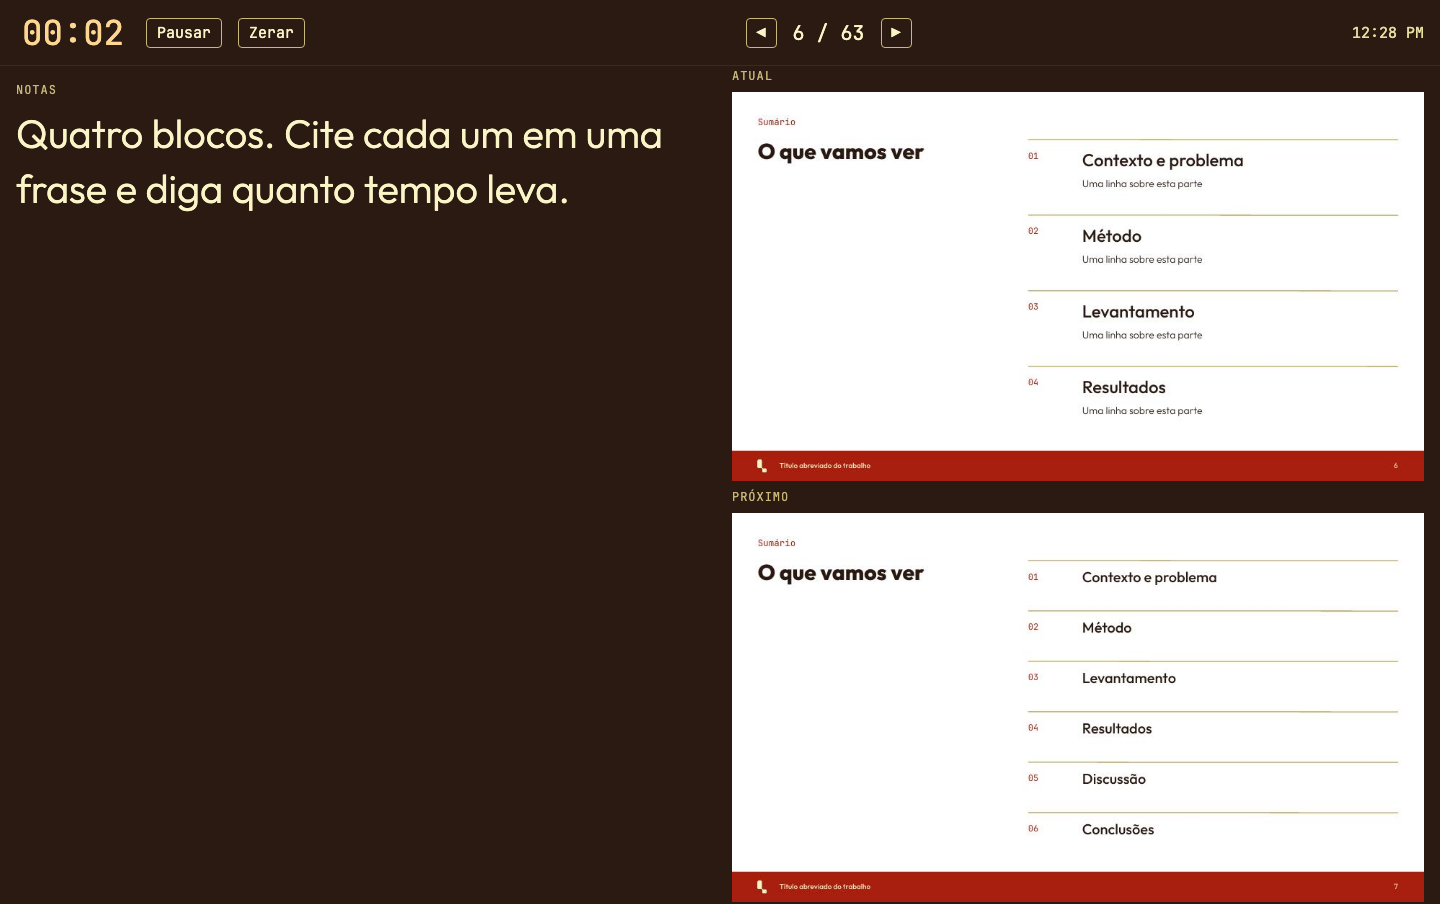
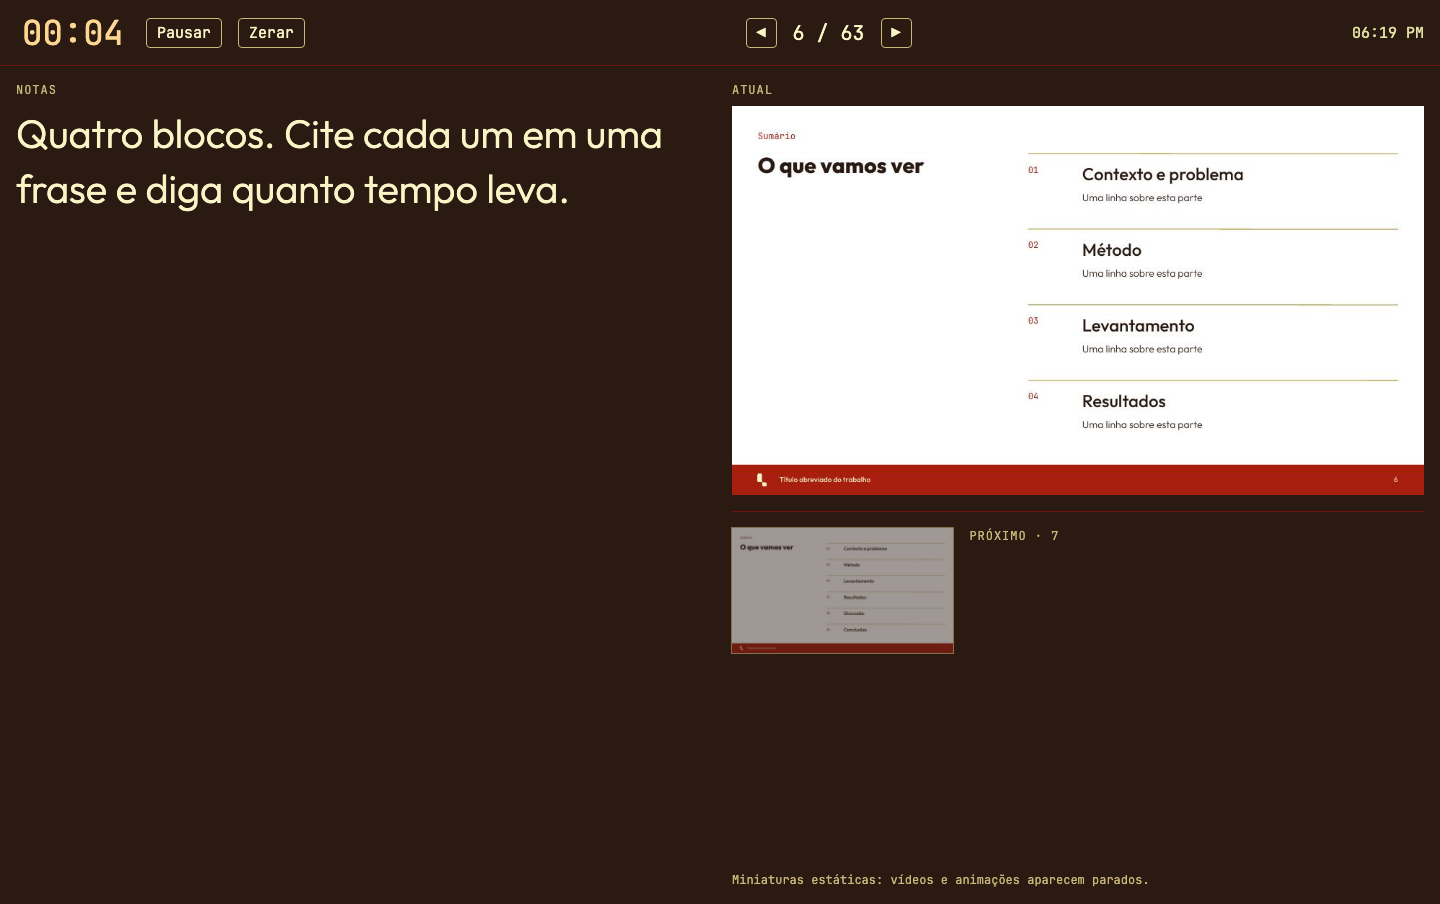
Apresentação v2: novo layout da janela do apresentador
Slide atual grande; próximo em miniatura menor e apagada, ao lado do
começo da nota dele; aviso de que as miniaturas são estáticas (vídeos e
animações aparecem parados). Print, README, CHANGELOG e página 8.1
atualizados.

diff --git a/templates/apresentacao/potx/apresentador.js b/templates/apresentacao/potx/apresentador.js
@@ -1,6 +1,6 @@
 // Janela do apresentador do deck HTML (o html.js injeta este arquivo só quando há notas). Adaptado do Vision.
 // O runtime do deck-stage carrega as notas, mas só as mostra dentro de um aplicativo hospedeiro; aqui:
-//   N  abre o apresentador: nota atual (fonte ajustada para caber), começo da próxima nota, slide atual e próximo, cronômetro, hora.
+//   N  abre o apresentador: nota atual (fonte ajustada para caber), slide atual grande, próximo pequeno com o começo da nota dele, cronômetro, hora.
 //      É uma janela comum: arraste para a tela do notebook e maximize, ou use F nela para tela cheia.
 // No apresentador: setas, espaço, PageUp e PageDown movem o deck; P inicia ou pausa o cronômetro; R zera.
 // O cronômetro começa sozinho na primeira troca de slide. Sem contagem regressiva (decisão do Vision).
@@ -37,8 +37,8 @@
     $('ni').hidden = last; $('end').hidden = !last;
     if (!last) $('ni').src = img(cur + 1);
     $('notes').innerHTML = notes[cur] ? notes[cur].split(/\n+/).map((p) => `<p>${esc(p)}</p>`).join('') : '<p class="none">Sem notas neste slide.</p>';
-    const prox = (notes[cur + 1] || '').split(/\n+/)[0]; // começo da próxima nota: só a primeira linha, em cinza
-    $('nn').textContent = prox ? 'Próxima: ' + prox : '';
+    $('nl').textContent = last ? 'Próximo' : `Próximo · ${cur + 2}`;
+    $('nn').textContent = (notes[cur + 1] || '').split(/\n+/)[0]; // começo da próxima nota: só a primeira linha, em cinza
     fitNotes();
   };
   // Maior fonte (12–40 px) em que a nota cabe na coluna sem rolar.
@@ -75,8 +75,10 @@
     button:hover,button:focus-visible{background:#6E1408;outline:none}
     .main{display:grid;grid-template-columns:1fr 1fr;gap:24px;padding:16px;min-height:0}
     .col{display:flex;flex-direction:column;gap:8px;min-height:0}
-    .shots{justify-content:center}
-    .shots img,.shots #end{width:auto;max-width:100%;max-height:calc(50vh - 60px);align-self:center}
+    #ci{width:auto;max-width:100%;max-height:calc(100vh - 300px);align-self:start}
+    .next{display:grid;grid-template-columns:32% 1fr;gap:16px;align-items:start;margin-top:8px;padding-top:16px;border-top:1px solid #6E1408}
+    #ni{opacity:.55;outline:1px solid #C9B87A} /* pequeno e apagado: não confundir com o atual */
+    .aviso{margin:auto 0 0;font:12px 'JetBrains Mono',monospace;color:#C9B87A}
     .lab{margin:0;font:12px 'JetBrains Mono',monospace;letter-spacing:.08em;text-transform:uppercase;color:#C9B87A}
     img{display:block;width:100%;aspect-ratio:16/9;object-fit:contain;background:#000}
     #end{aspect-ratio:16/9;display:grid;place-items:center;margin:0;border:1px dashed #C9B87A;color:#C9B87A;
@@ -84,7 +86,7 @@
     #end[hidden],img[hidden]{display:none}
     #notes{flex:1;min-height:0;overflow:hidden;line-height:1.4}
     #notes p{margin:0 0 .6em} #notes .none{color:#C9B87A}
-    #nn{margin:0;color:#C9B87A;font-size:15px;line-height:1.3;max-height:2.6em;overflow:hidden}`;
+    #nn{margin:8px 0 0;color:#C9B87A;font-size:15px;line-height:1.3;max-height:5.2em;overflow:hidden}`;
   const HTML = `
     <div class="bar">
       <span id="t">00:00</span><button id="pp">Iniciar</button><button id="rs">Zerar</button>
@@ -93,9 +95,11 @@
       <span class="sp"></span><span id="clk"></span>
     </div>
     <div class="main">
-      <div class="col"><p class="lab">Notas</p><div id="notes"></div><p id="nn"></p></div>
-      <div class="col shots"><p class="lab">Atual</p><img id="ci" alt="Slide atual">
-        <p class="lab">Próximo</p><img id="ni" alt="Próximo slide"><p id="end" hidden>Fim do deck</p></div>
+      <div class="col"><p class="lab">Notas</p><div id="notes"></div></div>
+      <div class="col"><p class="lab">Atual</p><img id="ci" alt="Slide atual">
+        <div class="next"><div><img id="ni" alt="Próximo slide"><p id="end" hidden>Fim do deck</p></div>
+          <div><p class="lab" id="nl">Próximo</p><p id="nn"></p></div></div>
+        <p class="aviso">Miniaturas estáticas: vídeos e animações aparecem parados.</p></div>
     </div>`;
 
   const open = async () => {

diff --git a/capitulos/8-templates/_gerar.py b/capitulos/8-templates/_gerar.py
@@ -74,8 +74,8 @@ apres = f'''<style>.fam{{margin:8px 0 20px;padding:0;list-style:none;display:gri
 <p class="p">Para o deck HTML, descompacte o zip e abra <span class="mono">Apresentacao.dc.html</span> no navegador. Setas passam os slides; G mostra a grade, F alterna a tela cheia e N abre a janela do apresentador. Cada slide é uma <span class="mono">&lt;section&gt;</span> no arquivo: edite os textos num editor de texto e troque as imagens na pasta <span class="mono">img/</span>, mantendo os nomes.</p>
 {H}Notas do apresentador</h2>
 <p class="p">As notas são o texto que só o apresentador vê. No PowerPoint, escreva no campo de notas de cada slide e use o Modo de Apresentação. Com o gerador, passe <span class="mono">notas: '…'</span> no <span class="mono">s()</span> do slide (<span class="mono">\\n</span> separa parágrafos); as notas vão para o .pptx e para o deck HTML.</p>
-<p class="p">No deck HTML, a tecla N abre a janela do apresentador: nota do slide atual, começo da nota seguinte, miniaturas do slide atual e do próximo, cronômetro e relógio. P inicia ou pausa o cronômetro, R zera, as setas passam os slides e F ocupa a tela toda. O navegador precisa permitir pop-up para o site. Arraste a janela para a tela do notebook e deixe o deck no projetor.</p>
-<div class="fig"><img src="capitulos/8-templates/img/apresentador.png" alt="Janela do apresentador: à esquerda a nota do slide 6, &quot;Quatro blocos. Cite cada um em uma frase e diga quanto tempo leva.&quot;; à direita as miniaturas do slide atual e do próximo, e no topo o cronômetro, os botões e a hora." width="1440" height="904" style="display:block;width:100%;height:auto;border-radius:6px"><p class="cap">Janela do apresentador no slide 6 do exemplo.</p></div>
+<p class="p">No deck HTML, a tecla N abre a janela do apresentador: nota do slide atual, o slide atual em tamanho grande, o próximo em miniatura menor com o começo da nota seguinte, cronômetro e relógio. As miniaturas são estáticas: vídeos e animações aparecem parados. P inicia ou pausa o cronômetro, R zera, as setas passam os slides e F ocupa a tela toda. O navegador precisa permitir pop-up para o site. Arraste a janela para a tela do notebook e deixe o deck no projetor.</p>
+<div class="fig"><img src="capitulos/8-templates/img/apresentador.png" alt="Janela do apresentador: à esquerda a nota do slide 6, &quot;Quatro blocos. Cite cada um em uma frase e diga quanto tempo leva.&quot;; à direita o slide atual em tamanho grande e, abaixo, o próximo em miniatura menor e apagada, com o aviso de que as miniaturas são estáticas; no topo o cronômetro, os botões e a hora." width="1440" height="904" style="display:block;width:100%;height:auto;border-radius:6px"><p class="cap">Janela do apresentador no slide 6 do exemplo.</p></div>
 {H}Baixar</h2>
 <p class="p mono">Versão {VER} · <a href="{escape(hist)}">histórico de versões</a> · <a href="https://github.com/lina-ufc/lina-design-system/releases">versões anteriores</a></p>
 <div class="dl">{cards}</div>

diff --git a/templates/apresentacao/README.md b/templates/apresentacao/README.md
@@ -138,7 +138,7 @@ Um deck próprio usa o gerador assim: `DECK=meu-deck.js FOOT="Título abreviado"
 
 ## Deck HTML
 
-- Teclas: F alterna tela cheia, G mostra a grade, N abre a janela do apresentador (nota atual, começo da próxima nota, slide atual e próximo, cronômetro e hora). A janela é um pop-up: o navegador precisa permitir pop-up. Nela, P inicia ou pausa o cronômetro e R zera.
+- Teclas: F alterna tela cheia, G mostra a grade, N abre a janela do apresentador (nota atual, slide atual grande, próximo em miniatura menor com o começo da próxima nota, cronômetro e hora). As miniaturas são estáticas: vídeos e animações aparecem parados. A janela é um pop-up: o navegador precisa permitir pop-up. Nela, P inicia ou pausa o cronômetro e R zera.
 - Notas: `notas` no `s()` vai para o campo de notas do .pptx e para o HTML. Sem notas, a janela não existe.
 - Transições (opcionais, `opcoes.transicoes`): elementos iguais ficam parados, os que mudam de lugar deslizam, o resto entra em sequência. Sem movimento com `prefers-reduced-motion`.
 - Pacote offline: o zip do deck HTML leva `fonts.css` e `fonts/` ao lado do HTML; a fonte instalada tem prioridade e o arquivo cobre o computador sem ela.

diff --git a/templates/apresentacao/CHANGELOG.md b/templates/apresentacao/CHANGELOG.md
@@ -22,7 +22,8 @@ removidos e outros renomeados; os nomes antigos continuam valendo no gerador, ma
 - Imagem no preenchimento: `cover`, `fit` e `alt`; vídeo com poster.
 - Componentes do gerador: declaração-chave, cartão, tile numerado, tile de ícone, número com seta, legenda,
   legenda de cores, tabela com coluna destacada, marcador.
-- Notas do apresentador no .pptx e no HTML; janela do apresentador (tecla N) com nota, próxima nota, miniaturas e cronômetro.
+- Notas do apresentador no .pptx e no HTML; janela do apresentador (tecla N) com nota, slide atual grande, próximo em miniatura menor
+  com o começo da próxima nota, aviso de miniaturas estáticas e cronômetro.
 - Transições opcionais no deck HTML, desligadas com movimento reduzido.
 - Idioma do deck (`lang`) no HTML e no .pptx; texto alternativo nas imagens.
 - Pacote HTML offline: `fonts.css` e `fonts/` com Outfit, JetBrains Mono e STIX Two Math (OFL).

diff --git a/docs/superpowers/plans/2026-11-26-apresentacao-v2/progress.md b/docs/superpowers/plans/2026-11-26-apresentacao-v2/progress.md
@@ -94,3 +94,4 @@ Desvios: `1.1 Abertura` continua no template (só a variação "logo" saiu; Revi
 - 2026-11-26 — plano 04 concluído (`3a46ef8`, `e32992e`, `cd489b2`); plano 05 escrito.
 - 2026-11-26 — plano 05 concluído (`9d7f27b`, `59ca189`, `0f912e5`); plano 06 escrito.
 - 2026-11-26 — plano 06 tarefas 1–3 concluídas (`f56b38c`, `61e5098`, `63790b2`); publicação aguarda o usuário.
+- 2026-11-26 — janela do apresentador: slide atual grande, próximo em miniatura menor e apagada com o começo da nota, aviso de miniaturas estáticas; print, README, CHANGELOG e página 8.1 atualizados.
